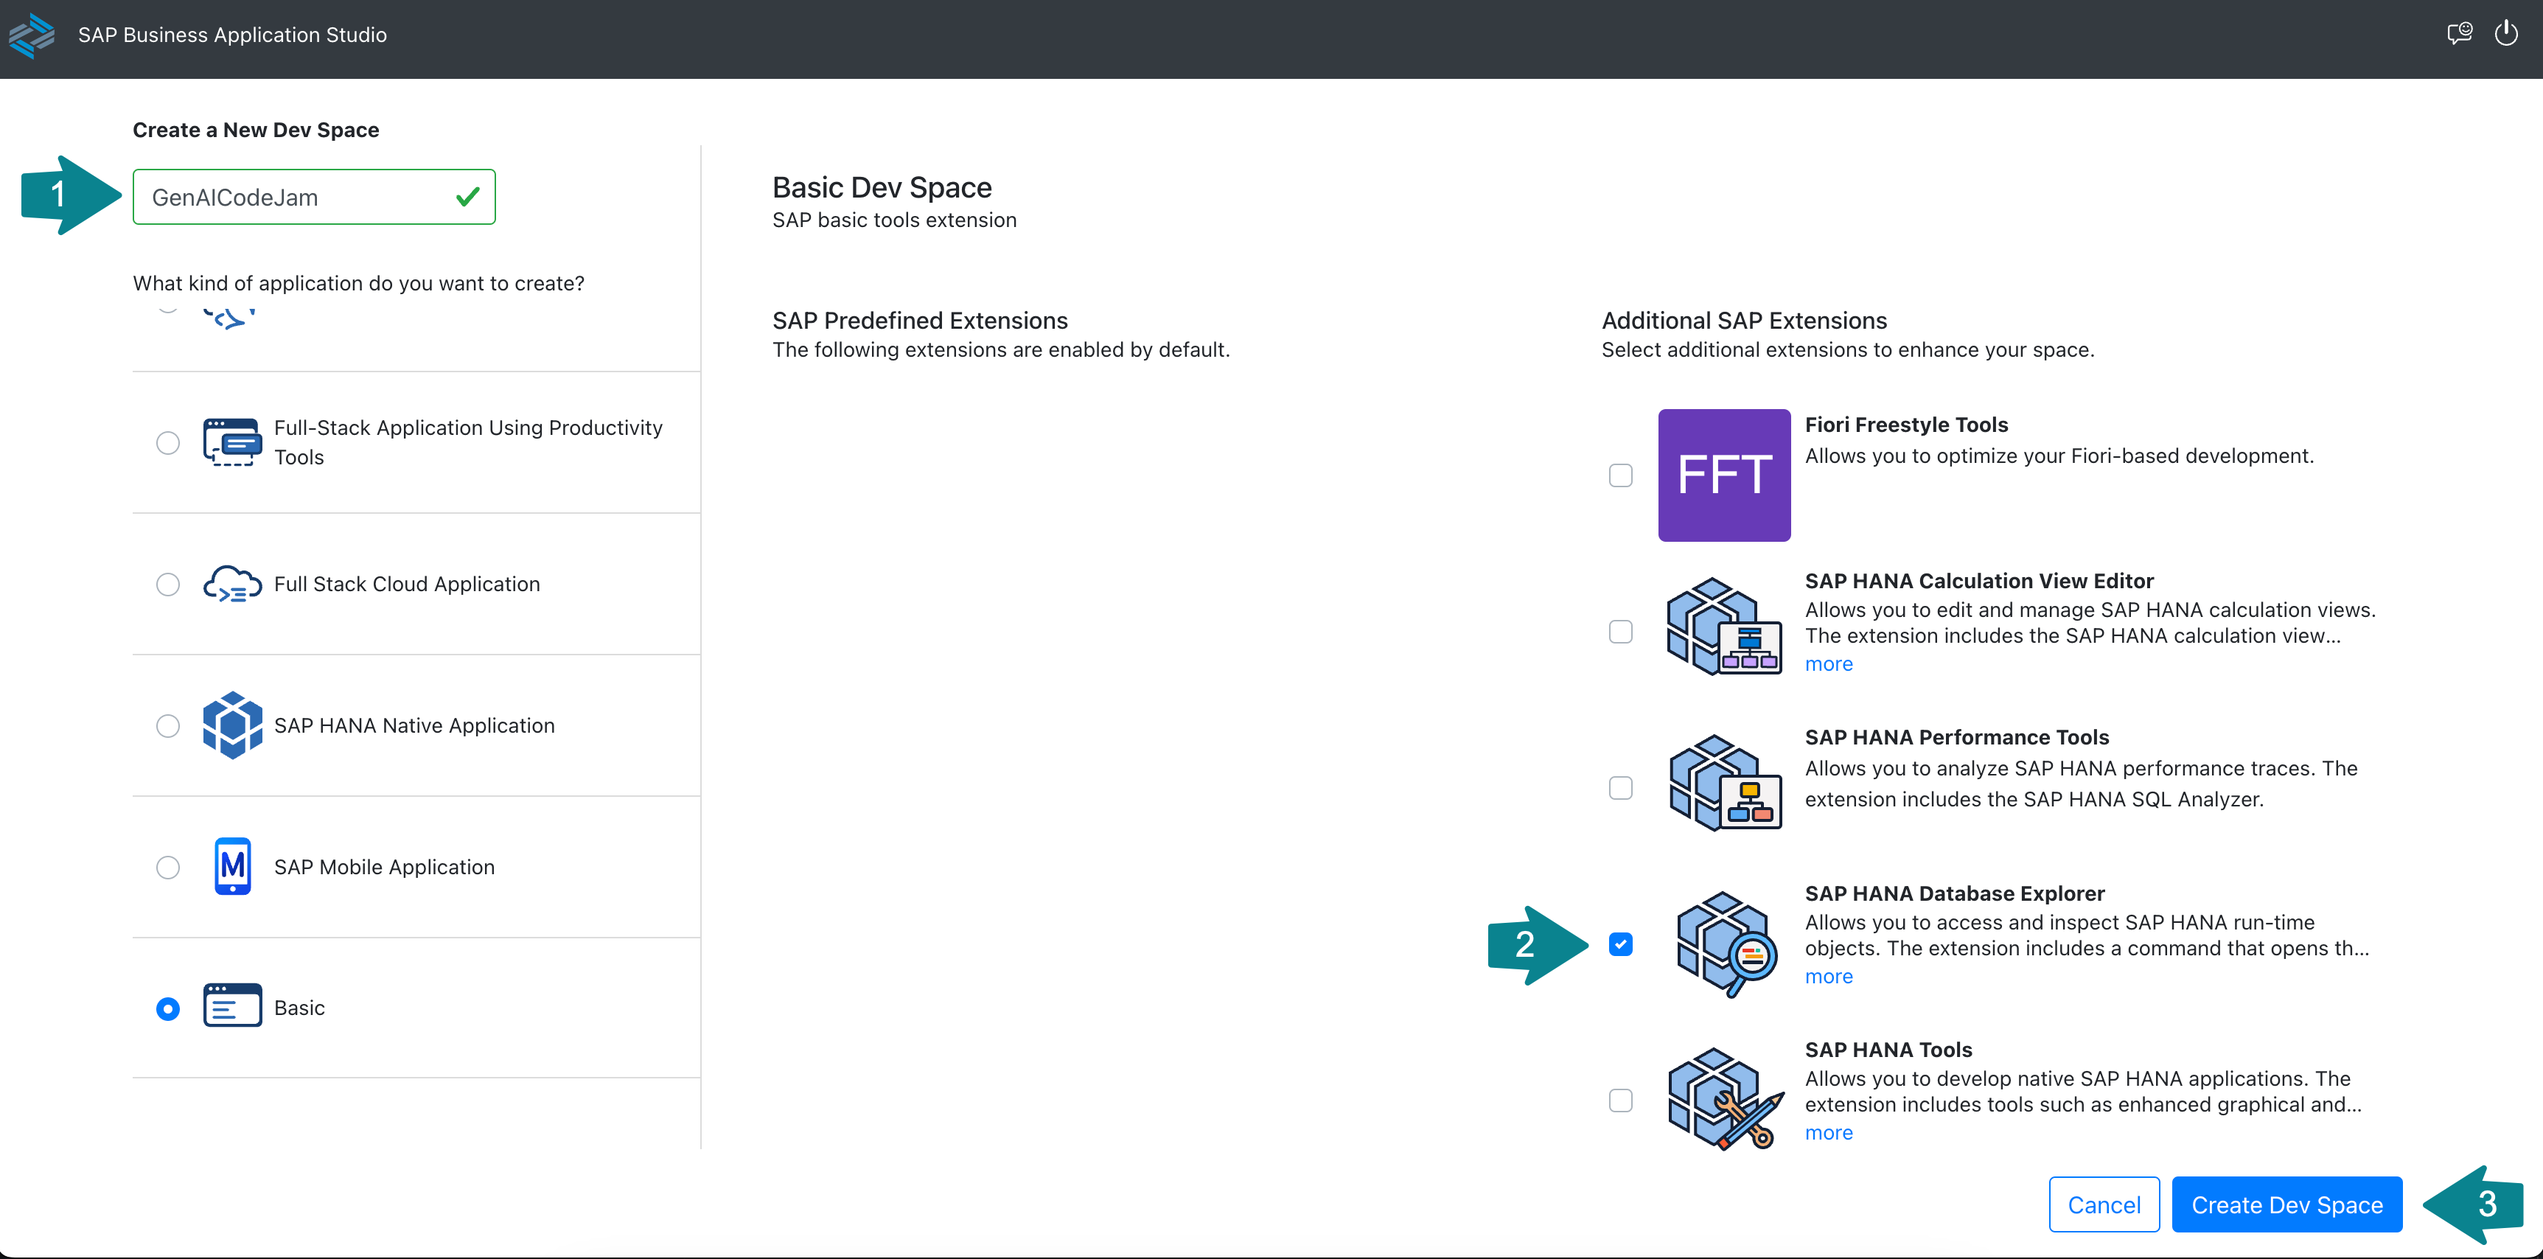
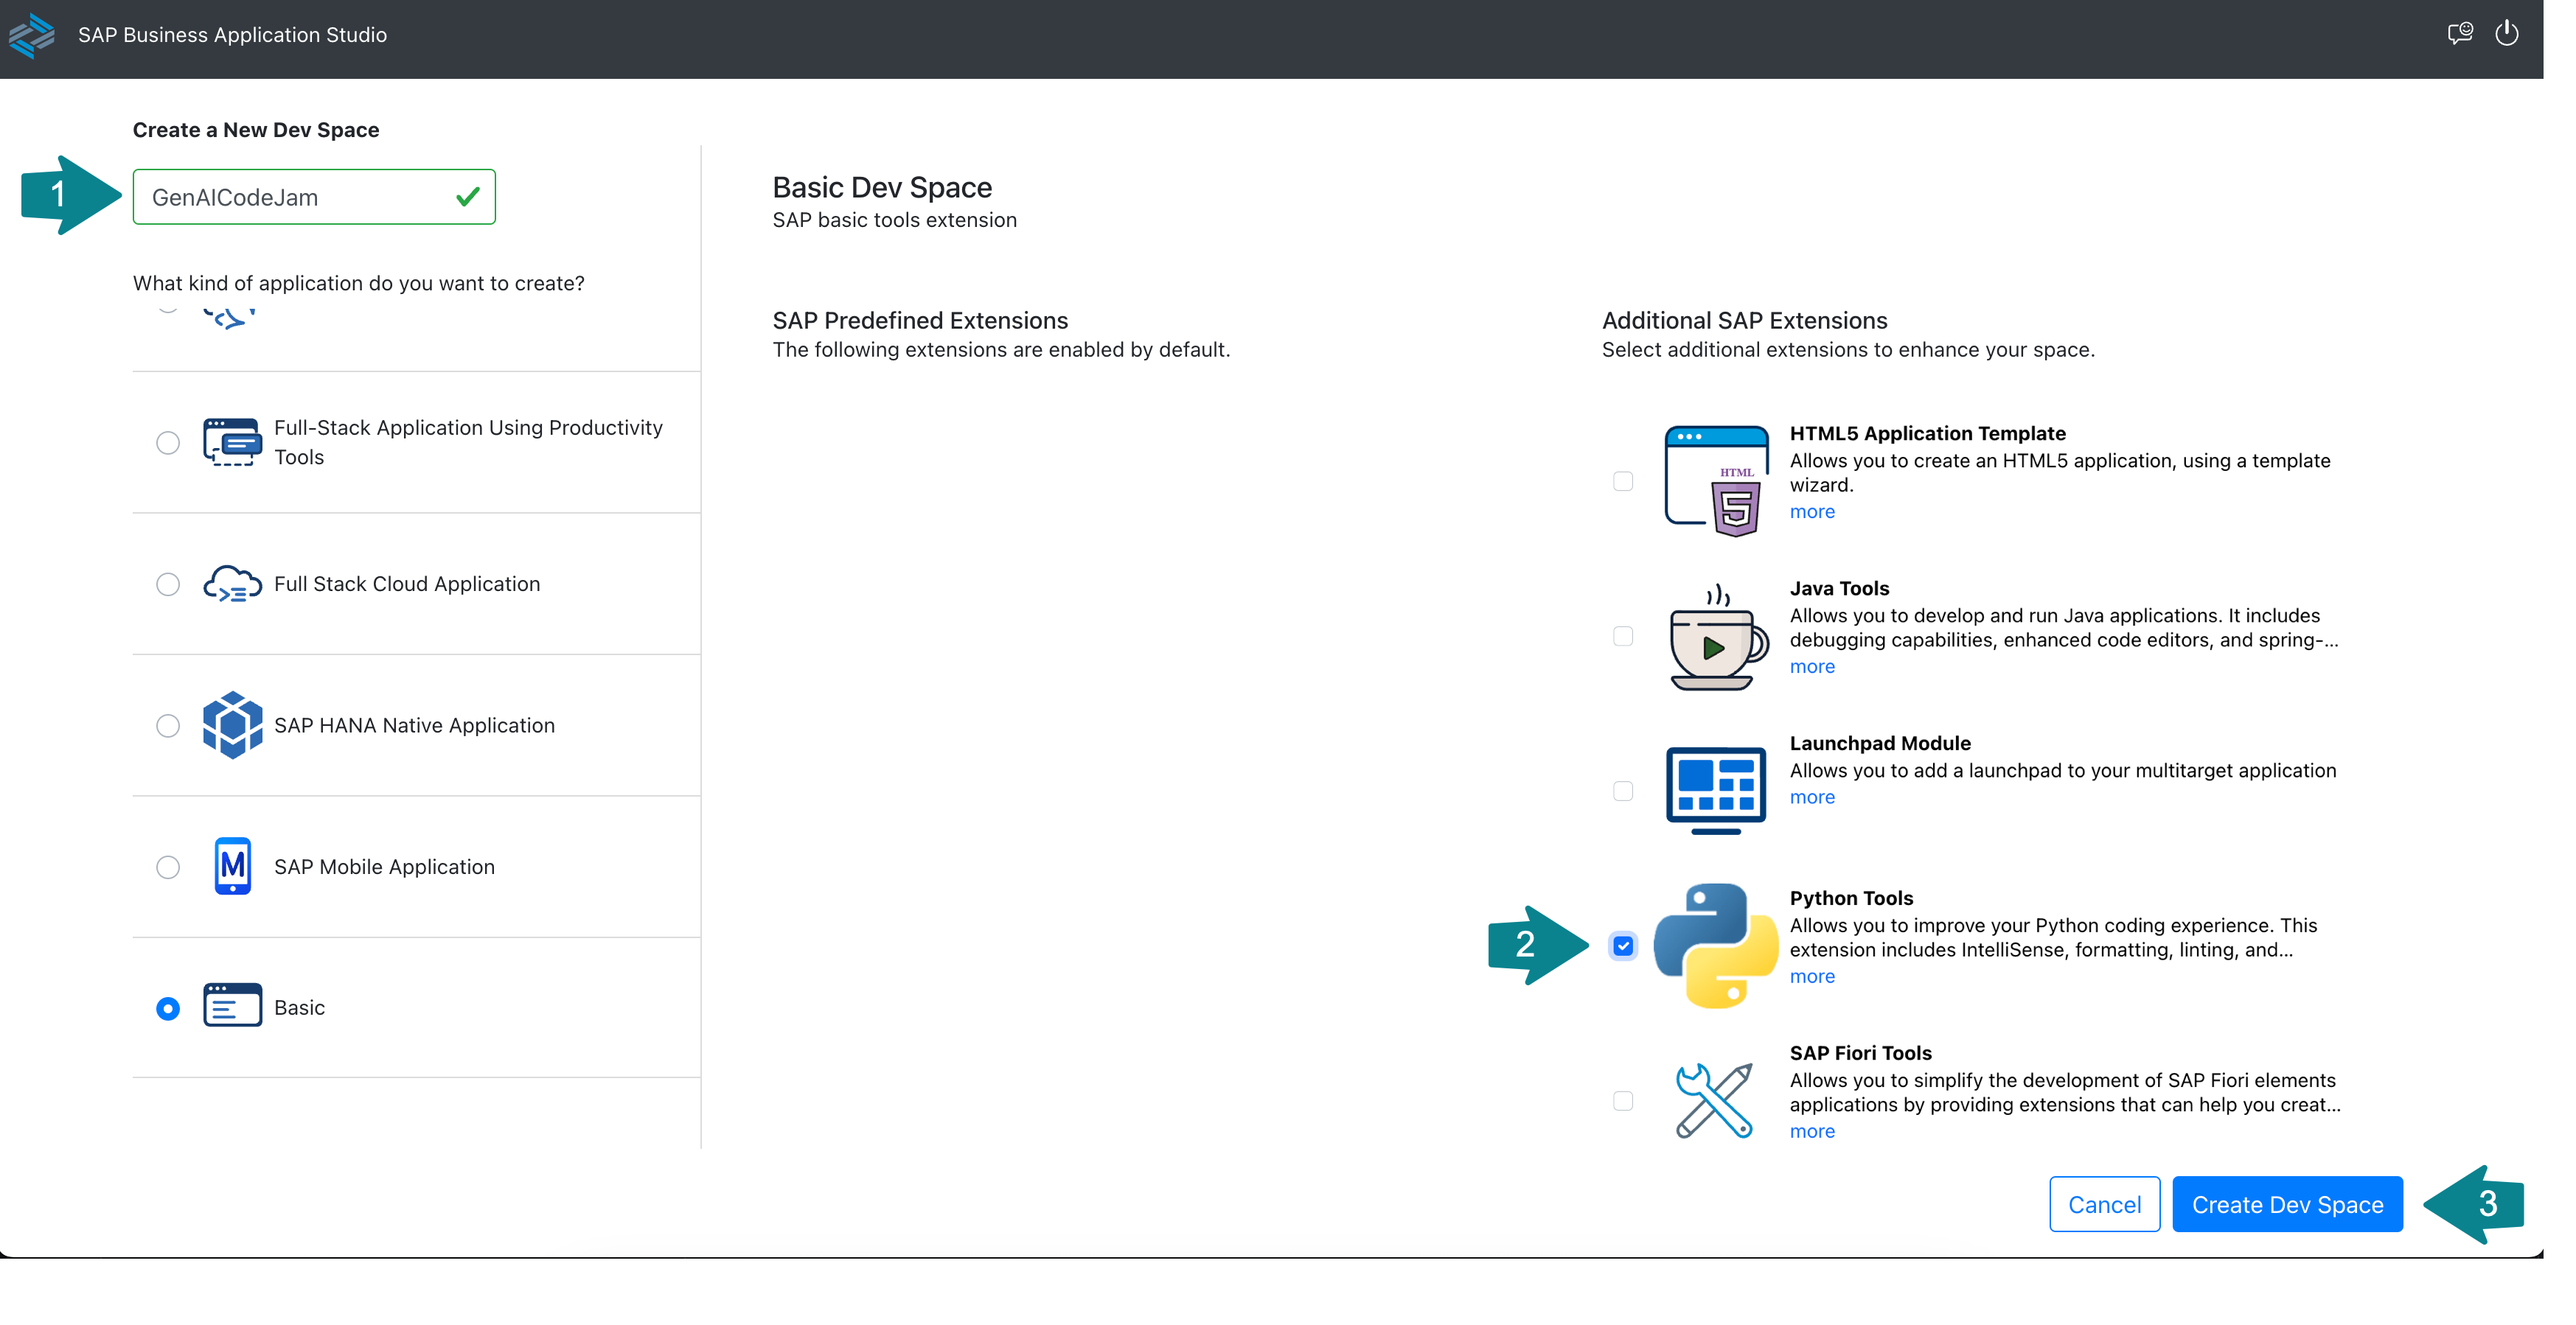
delet images and model change

diff --git a/exercises/01-deploy-model.md b/exercises/01-deploy-model.md
@@ -16,7 +16,7 @@ To use one of the provided LLMs for a custom use case, you need to create a depl
 
 👉 **Copy** the name of the model for which you want to deploy the proxy.
 
-For this CodeJam you will use `gpt-35-turbo`.
+For this CodeJam you will use `gpt-4`.
 
 After that you will create a configuration.
 
@@ -28,16 +28,16 @@ After that you will create a configuration.
 
 ![Configurations](images/configurations.png)
 
-👉 Enter a configuration name **`conf-gpt35-turbo`**, select the `foundation-models` scenario, version and the executable `azure-openai`. 
+👉 Enter a configuration name **`conf-gpt4`**, select the `foundation-models` scenario, version and the executable `azure-openai`. 
 
 Click **Next**.
 
 ![Create configuration 1/4](images/configurations_2.png)
 
-👉 Paste the model name `gpt-35-turbo` into the `modelName` field and click **Next**.
+👉 Paste the model name `gpt-4` into the `modelName` field and click **Next**.
 
 ```
-gpt-35-turbo
+gpt-4
 ```
 
 ![Create configuration 2/4](images/configurations_3.png)
@@ -86,7 +86,7 @@ Using the `URL`, `client ID`, and `client secret` from the SAP AI Core service k
 
 To implement a retrieval augmented generation (RAG) use case, you also need to deploy an embedding model. The embeddings for your text chunks will then be stored in a vector database (e.g. [SAP HANA Cloud Vector Engine](https://help.sap.com/docs/hana-cloud-database/sap-hana-cloud-sap-hana-database-vector-engine-guide/sap-hana-cloud-sap-hana-database-vector-engine-guide)). 
 
-👉 To deploy the embedding model repeat the steps above using the model name `text-embedding-ada-002` instead of `gpt-35-turbo`: 
+👉 To deploy the embedding model repeat the steps above using the model name `text-embedding-ada-002` instead of `gpt-4`: 
 ```
 text-embedding-ada-002
 ```

diff --git a/exercises/03-setup-python-environment.md b/exercises/03-setup-python-environment.md
@@ -17,7 +17,7 @@
 
 ![Create a Dev Space 1](images/bas.png)
 
-👉 Enter the name of the Dev space `GenAICodeJam` and select the `Basic` kind of application.
+👉 Enter the name of the Dev space `GenAICodeJam`, select the `Basic` kind of application and `Python Tools` from Additional SAP Extensions.
 
 👉 Click **Create Dev Space**.
 
